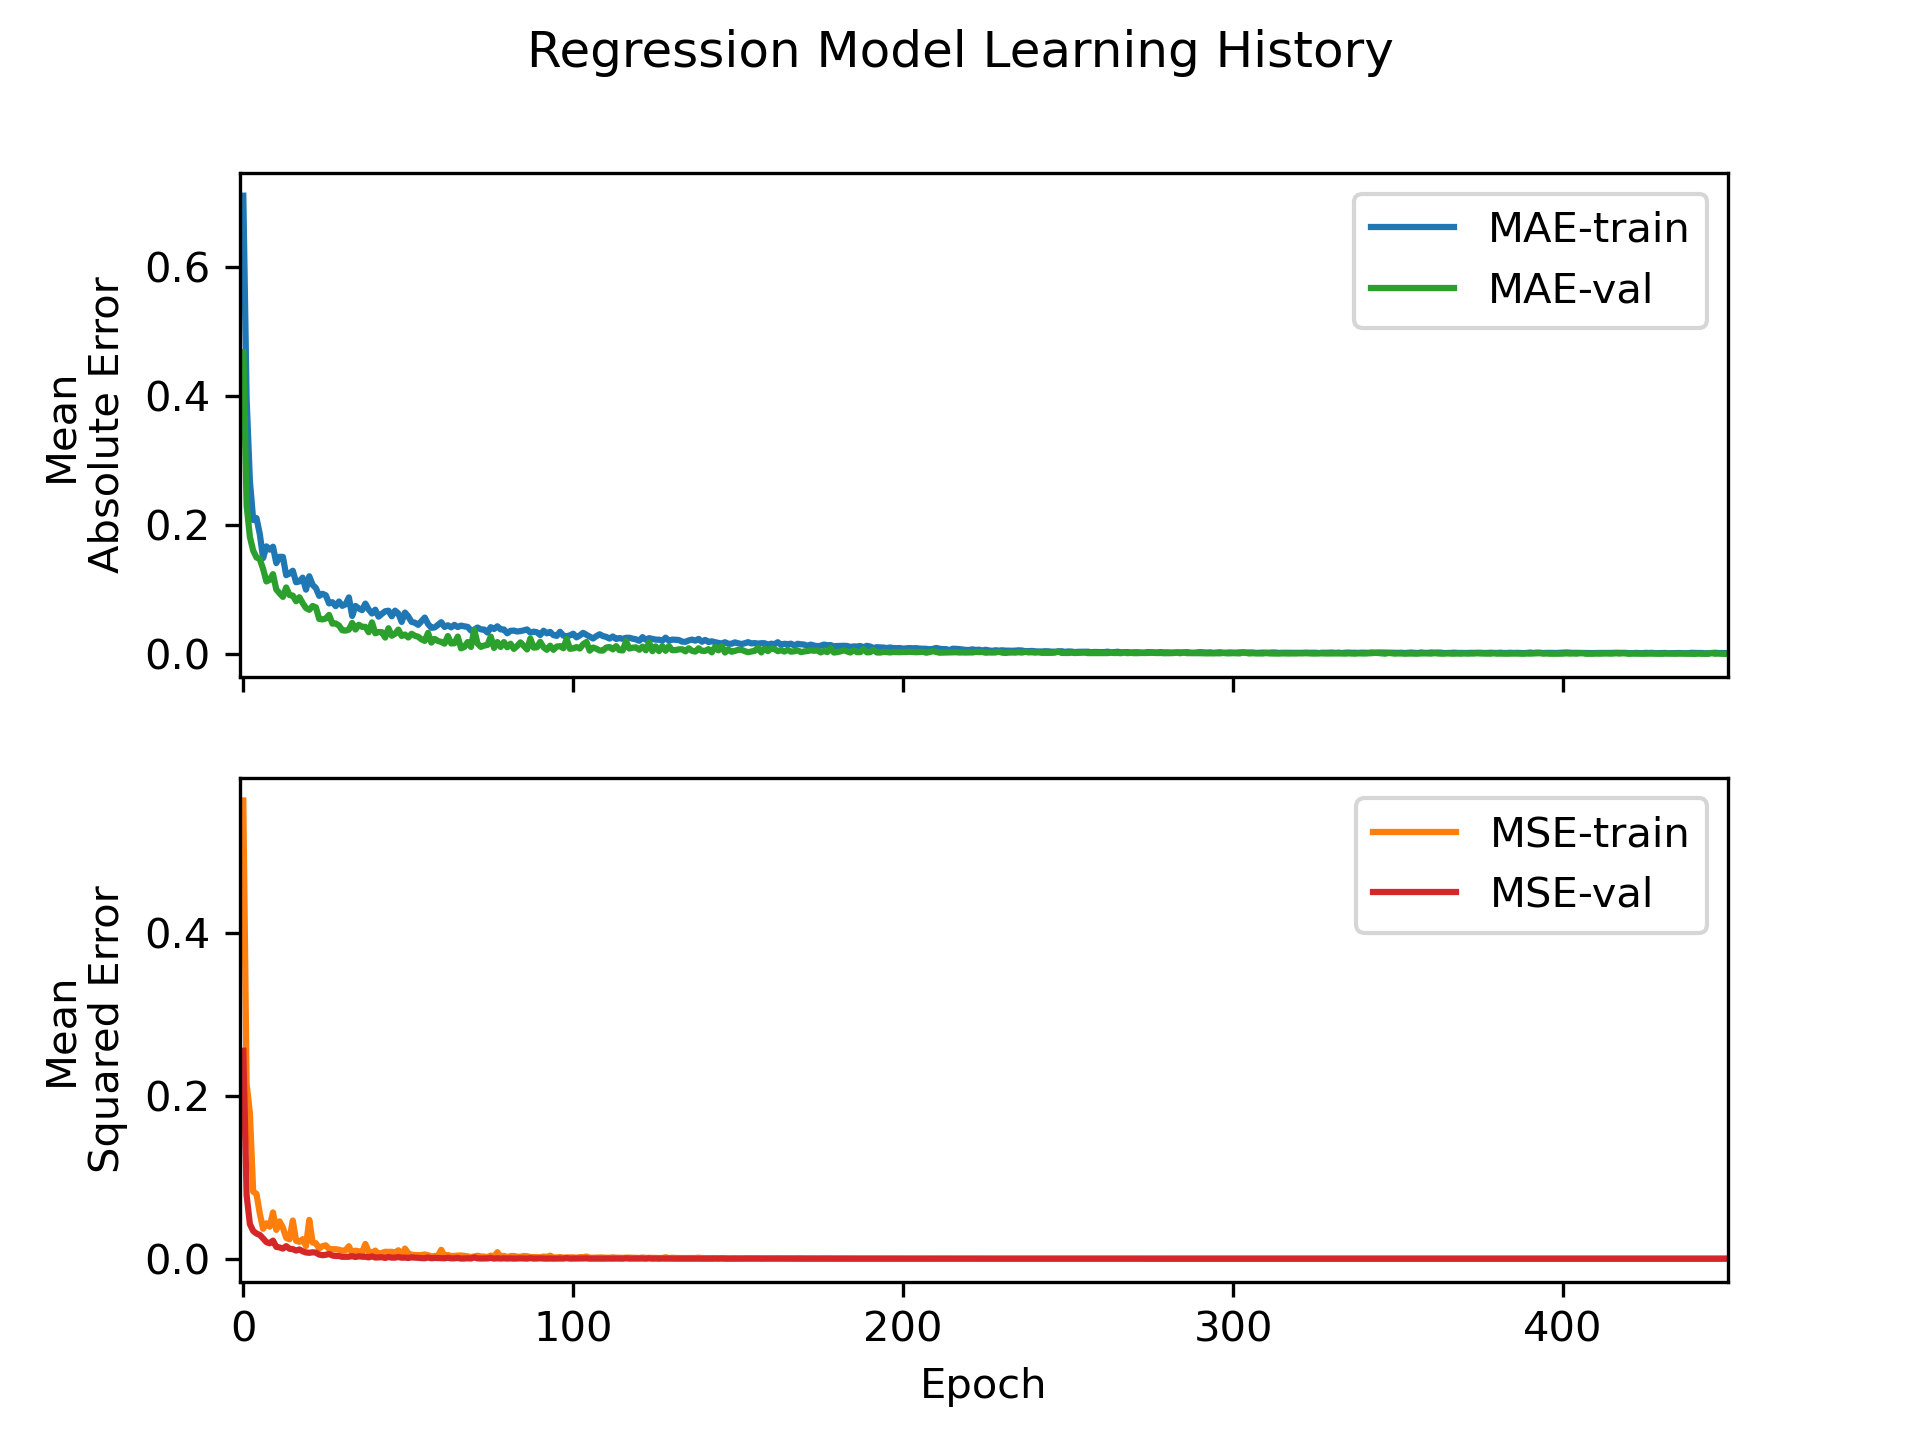
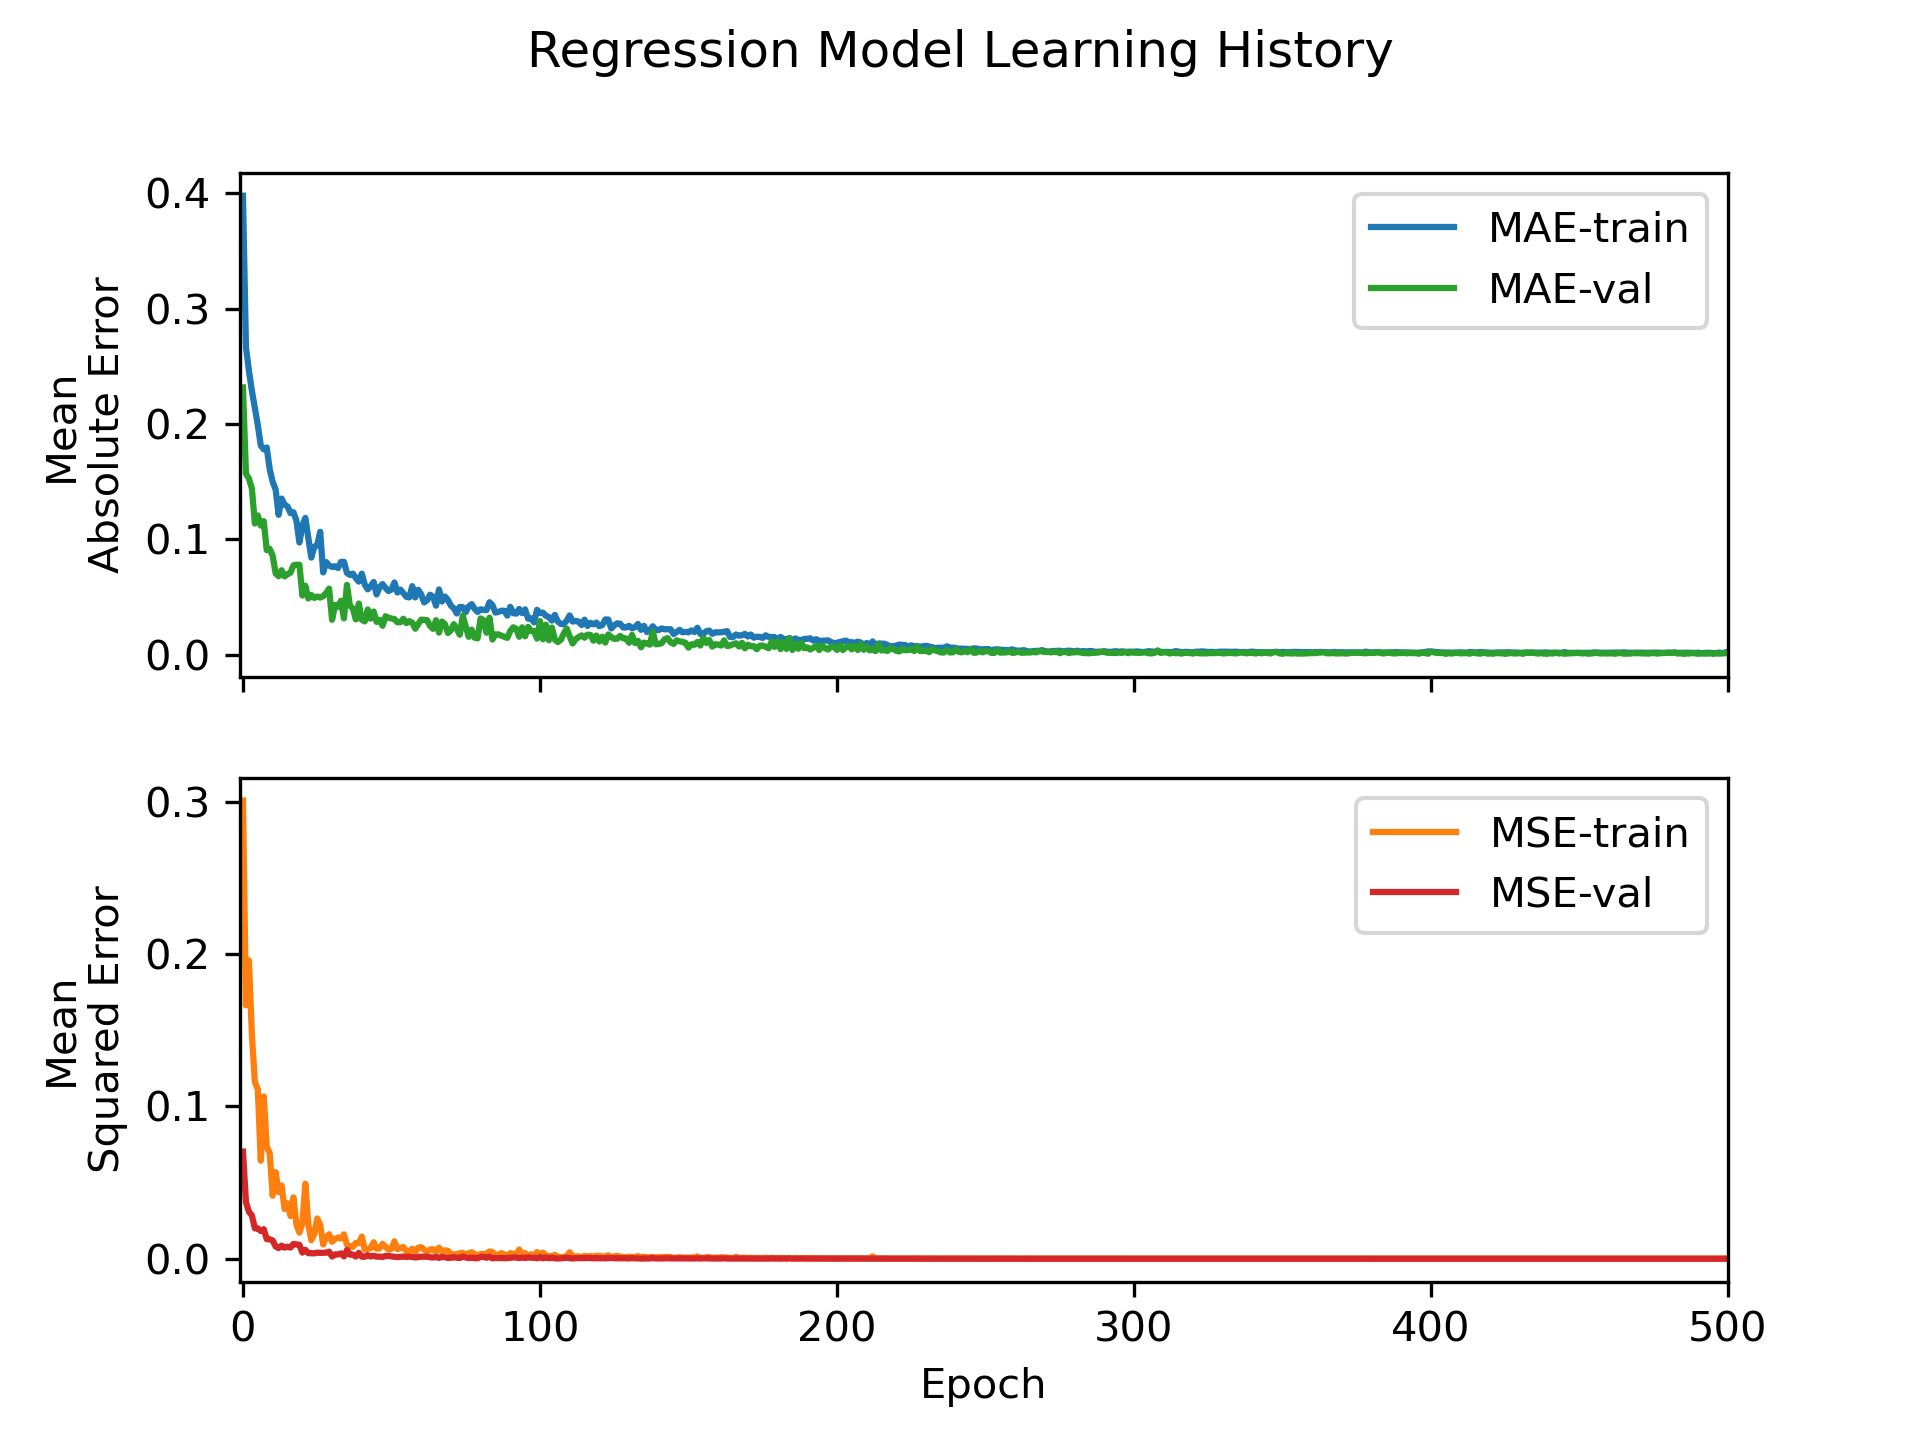
update

diff --git a/Optimising_Regression.py b/Optimising_Regression.py
@@ -25,7 +25,6 @@ from sklearn.preprocessing import StandardScaler
 from sklearn.metrics import mean_squared_error, mean_absolute_error, r2_score
 from sklearn.model_selection import GridSearchCV
 from tensorflow import keras
-from tqdm import tqdm
 
 from Experiment import load
 
@@ -102,31 +101,44 @@ def model_gridsearch(
         grid search cv results and estimators used
     """
 
-    kfold = KFold(n_splits=cv, shuffle=True, random_state=40)
+    kfold = KFold(n_splits=cv, shuffle=True)
 
     grid = GridSearchCV(
         estimator=model,
         param_grid=param_grid,
         n_jobs=-1,
         cv=kfold,
-        scoring={'r2': 'r2', 'MAE': 'mae', 'MSE': 'mse'},
+        scoring={'r2': 'r2', 'MAE': 'neg_mean_absolute_error', 'MSE': 'neg_mean_squared_error'},
         refit='r2',
         verbose=True,
         return_train_score=True,
     )
     logger.info(f'___GridSearchCV___')
+    logger.info('-' * 65)
+    logger.info(f'Parameter grid: ')
+    logger.info('-' * 65)
+    for key, value in param_grid.items():
+        logger.info(f'{key} - {value}')
+    logger.info('-'*65)
     gd_result = grid.fit(Xdata, ydata)
     best_estimator = gd_result.best_estimator_
 
-    logger.info(f'Best Estimator: {gd_result.best_score_:.6f}')
-    logger.info(f'Using: {gd_result.best_params_}')
-    # print("Best: %f using %s" % (gd_result.best_score_, gd_result.best_params_))
-    # print('-'*82)
-    # means = gd_result.cv_results_['mean_test_score']
-    # stds = gd_result.cv_results_['std_test_score']
-    # params = gd_result.cv_results_['params']
-    # for mean, stdev, param in zip(means, stds, params):
-    #     print("%f (%f) with: %r" % (mean, stdev, param))
+    logger.info(f'Best Estimator:')
+    logger.info('-' * 65)
+    logger.info(f'Score: {gd_result.best_score_:.6f}')
+    logger.info(f'Params:')
+    for key, value in gd_result.best_params_.items():
+        logger.info(f'{key}: {value}')
+    logger.info('-'*65)
+
+    logger.info('Results:')
+    logger.info('-' * 65)
+    means = gd_result.cv_results_['mean_test_r2']
+    stds = gd_result.cv_results_['std_test_r2']
+    params = gd_result.cv_results_['params']
+    for mean, stdev, param in zip(means, stds, params):
+        logger.info(f'{mean:.4f} ({stdev:.4f}) with: {param}')
+    logger.info('-' * 65)
     return best_estimator, gd_result
 
 
@@ -156,7 +168,7 @@ def score_train(
         dict of scores and times for each fitted model
     """
 
-    kfold = RepeatedKFold(n_splits=cv_splits, n_repeats=cv_repeats, random_state=40)
+    kfold = RepeatedKFold(n_splits=cv_splits, n_repeats=cv_repeats)
     scoring = {
         'MAE': 'neg_mean_absolute_error',
         'MSE': 'neg_mean_squared_error',
@@ -249,6 +261,7 @@ def train_history(model: Union[KerasRegressor, Pipeline]):
         fitted model to plot training history
     """
     logger.info('___Model learning/validation history___')
+    logger.info('-' * 65)
     pipe_bool = False
     if type(model) == Pipeline:
         pipe_bool = True
@@ -284,12 +297,12 @@ if __name__ == '__main__':
     logger.info('=' * 65)
     exp = load(file='Test 5')
     logger.info('Loaded Dateset')
-    dataframe = exp.features.drop(columns=['Runout', 'Form error', 'Freq 10 kHz', 'Freq 134 kHz'])
+    dataframe = exp.features.drop(columns=['Runout', 'Form error', 'Freq 10 kHz'])
     dataset = dataframe.values
     X = dataset[:, :-1]
     y = dataset[:, -1]
 
-    X_train, X_test, y_train, y_test = train_test_split(X, y, test_size=0.2, random_state=40)
+    X_train, X_test, y_train, y_test = train_test_split(X, y, test_size=0.2)
     logger.info('Split Dataset into Train and Test')
 
     # sc = StandardScaler()
@@ -322,12 +335,12 @@ if __name__ == '__main__':
         # model__dropout=[0, 0.1, 0.3, 0.5],
         # loss=['mse', 'mae'],
         # batch_size=[5, 8, 10, 15, 25, 32],
-        reg__epochs=[450, 500, 600],
+        # reg__epochs=[400, 500, 600]
         # optimizer=['adam', 'SGD', 'RMSprop', 'Adagrad', 'Adamax', 'Adadelta'],
         # optimizer__learning_rate=[0.0005, 0.0075, 0.001, 0.0025, 0.005, 0.01],
     )
 
-    pipe, grid_result = model_gridsearch(model=pipe, Xdata=X_train, ydata=y_train, param_grid=param_grid, cv=10)
+    # pipe, grid_result = model_gridsearch(model=pipe, Xdata=X_train, ydata=y_train, param_grid=param_grid, cv=10)
 
     pipe, train_scores = score_train(model=pipe, Xdata=X_train, ydata=y_train)
 
